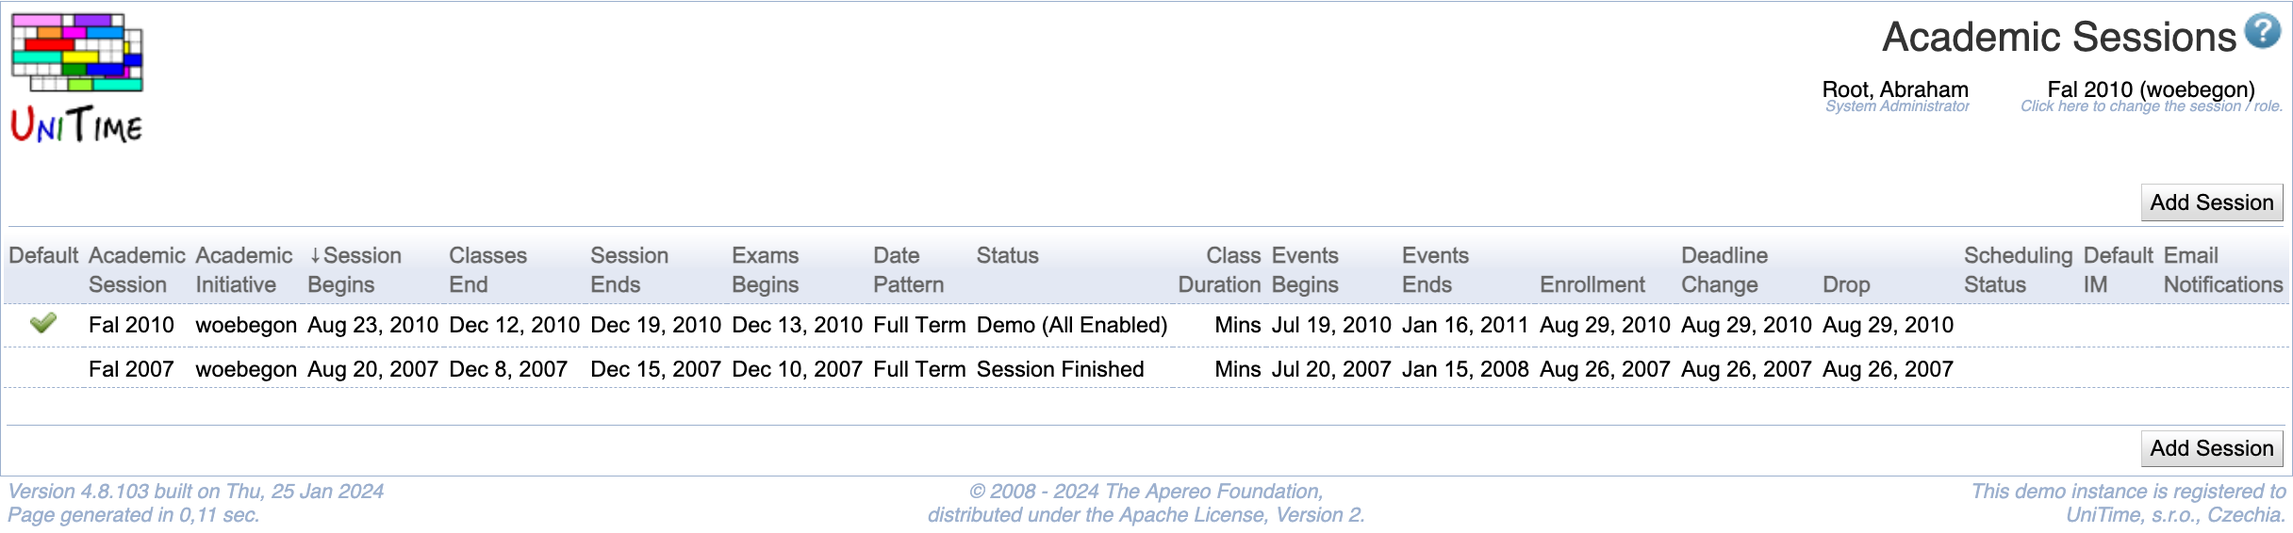
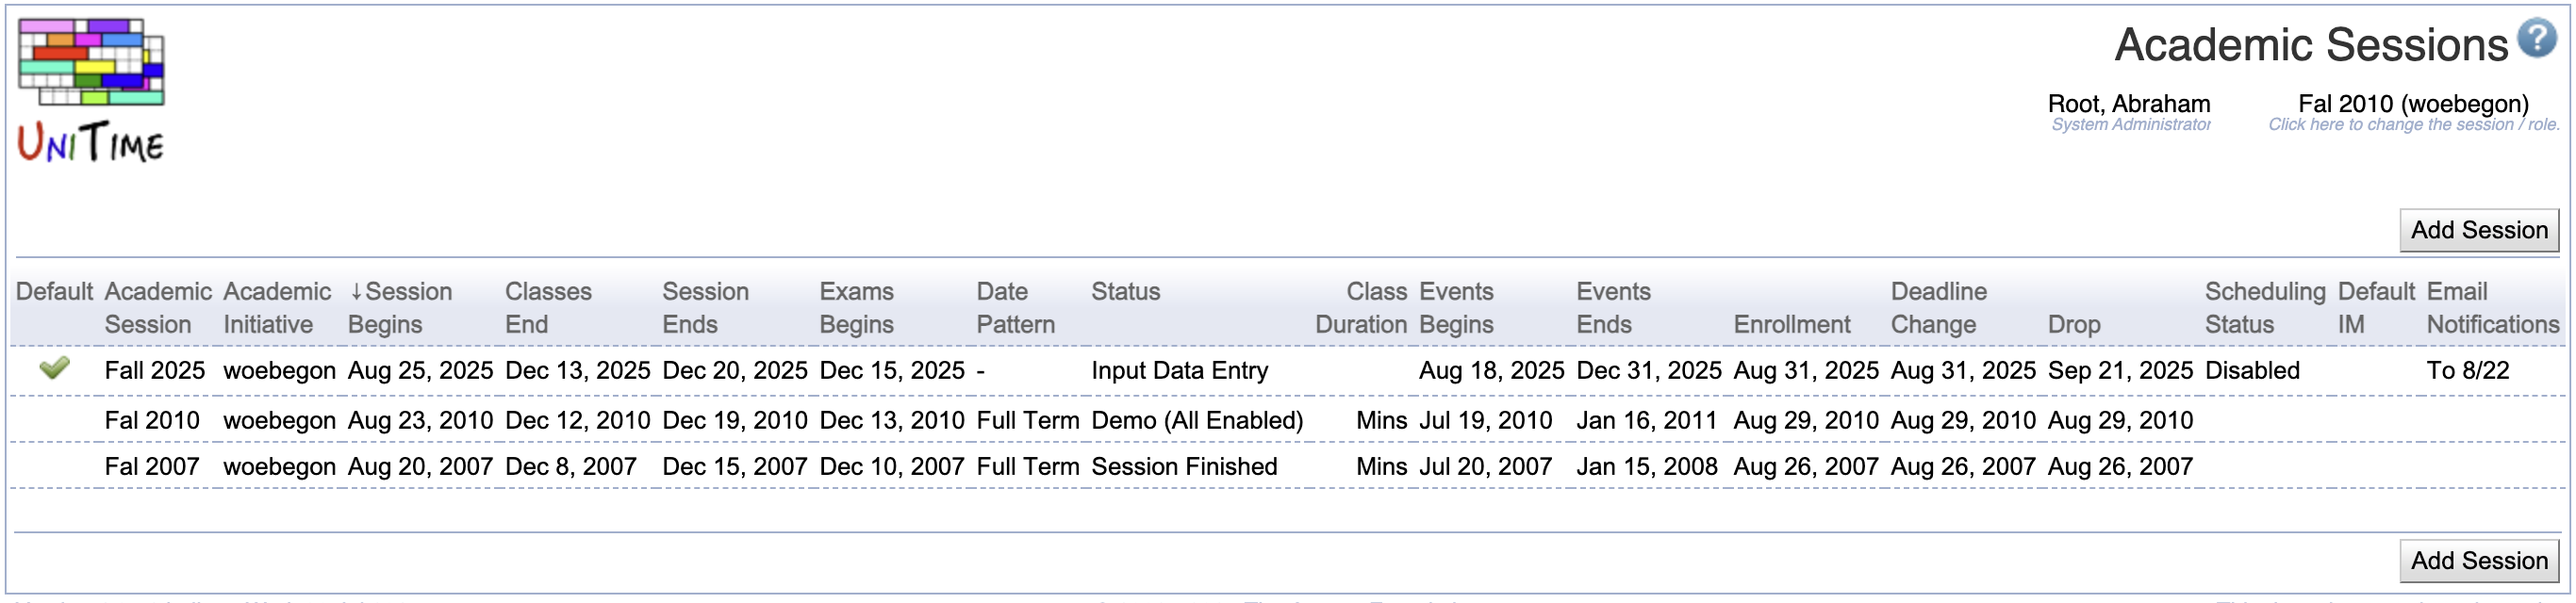
Academic Sessions
- new screenshots, new fields, text cleanup

Changed region(s): [[0.0, 0.3304, 1.0, 0.9912], [0.0, 0.0, 1.0, 0.2703], [0.7812, 0.1502, 1.0, 0.2403]]

diff --git a/edit-academic-session.md b/edit-academic-session.md
@@ -23,7 +23,7 @@ The Edit Academic Session screen provides interface for changing properties of a
 
 * **Default Date Pattern**
 	* Select which date pattern should be the default one out of all the date patterns available for a given session (you can see the available date patterns in the [Date Patterns](date-patterns) screen when you are in the given academic session)
-	* After you create an academic session, you need to create or roll forward date patterns in order to have any date patterns available. To roll forward date patterns, use [Session Roll Forward](https://sites.google.com/a/unitime.org/help/index_php?title=Session_Roll_Forward&action=edit) page.
+	* After you create an academic session, you need to create or roll forward date patterns in order to have any date patterns available. To roll forward date patterns, use [Roll Forward Session](roll-forward-session) page.
 
 * **Session Start Date**
 	* The date when the session begins
@@ -45,6 +45,13 @@ The Edit Academic Session screen provides interface for changing properties of a
 
 * **Session Status**
 	* The statuses are defined in the [Status Types](status-types) screen
+	* The default academic session statuses are
+		* **Initial Data Load**: Used during data import or session roll-forward. Departmental managers do not have access.
+		* **Input Data Entry**: Used during input data entry for the courses and examinations. The departmental schedule managers can edit input data and run the solver, but they cannot commit a timetable.
+		* **Timetable**: Used during course timetabling. The departmental managers can edit data, create and commit timetables.
+		* **Examination Timetabling**: Used during examination timetabling. Examination managers can make changes to the examinations and run the solver.
+		* **Timetable Published**: Only admins can make schedule changes. Other users can see the course and examination timetables in the Events.
+		* **Session Finished**: Academic session is no longer being used. Most users do not have access.
 
 * **Default Class Duration**
 	* Set the default class duration type for this academic session
@@ -77,7 +84,7 @@ The Edit Academic Session screen provides interface for changing properties of a
 	* Student scheduling statuses are defined in the [Student Scheduling Status Types](student-scheduling-status-types) screen
 
 * **Email Notifications**
-	* Optional stard and/or end dates for student schedule change email notifications sent to instructors and students
+	* Optional start and/or end dates for student schedule change email notifications sent to instructors and students
 
 ## Operations
 

diff --git a/add-academic-session.md b/add-academic-session.md
@@ -42,11 +42,14 @@ In the Add Academic Session screen, you can define a new academic session, inclu
 * **Session Status**
 	* The session status indicates what users can do within a session
 	* The options are set up in the [Status Types](status-types)
-	* The current basic statuses are
-		* Initial Data Load: Populating data from other resources or from the previous like-term before the schedule managers are allowed to start working in this session
-		* Input Data Entry: Schedule managers can edit input data and run the solver, but they cannot commit a timetable
-		* Timetabling: The schedule managers can edit data, create and commit timetables
-		* Timetabling Published: No schedule manager can edit input data or change timetables
+	* The default academic session statuses are
+		* **Initial Data Load**: Used during data import or session roll-forward. Departmental managers do not have access.
+		* **Input Data Entry**: Used during input data entry for the courses and examinations. The departmental schedule managers can edit input data and run the solver, but they cannot commit a timetable.
+		* **Timetable**: Used during course timetabling. The departmental managers can edit data, create and commit timetables.
+		* **Examination Timetabling**: Used during examination timetabling. Examination managers can make changes to the examinations and run the solver.
+		* **Timetable Published**: Only admins can make schedule changes. Other users can see the course and examination timetables in the Events.
+		* **Session Finished**: Academic session is no longer being used. Most users do not have access.
+
 
 * **Default Class Duration**
 	* Set the default class duration type for this academic session
@@ -81,7 +84,7 @@ In the Add Academic Session screen, you can define a new academic session, inclu
 	* Student scheduling statuses are defined in the [Student Scheduling Status Types](student-scheduling-status-types) screen
 
 * **Email Notifications**
-	* Optional stard and/or end dates for student schedule change email notifications sent to instructors and students
+	* Optional start and/or end dates for student schedule change email notifications sent to instructors and students
 
 ## Operations
 

diff --git a/academic-sessions.md b/academic-sessions.md
@@ -41,8 +41,8 @@ The Academic Sessions screen provides a list of existing academic sessions.
 	* Current status of the session (such as Initial Data Load, Timetabling, ...)
 	* The statuses are defined in the [Status Types](status-types) screen
 
-* **Subject Areas**
-	* The number of subject areas in the academic session
+* **Class Duration**
+	* Defaults class duration model, see [Class Duration Types](class-duration-types) screen
 
 * **Events Begin**
 	* First date for which events can be entered for this academic session
@@ -69,7 +69,8 @@ The Academic Sessions screen provides a list of existing academic sessions.
 	* Instructional methods are defined in the [Instructional Methods](instructional-methods) screen
 
 * **Email Notifications**
-	* Optional stard and/or end dates for student schedule change email notifications sent to instructors and students
+	* Optional start and/or end dates for student schedule change email notifications sent to instructors and students
+	
 Click on any line to change the session's properties in the [Edit Academic Session](edit-academic-session) screen.
 
 ## Operations
